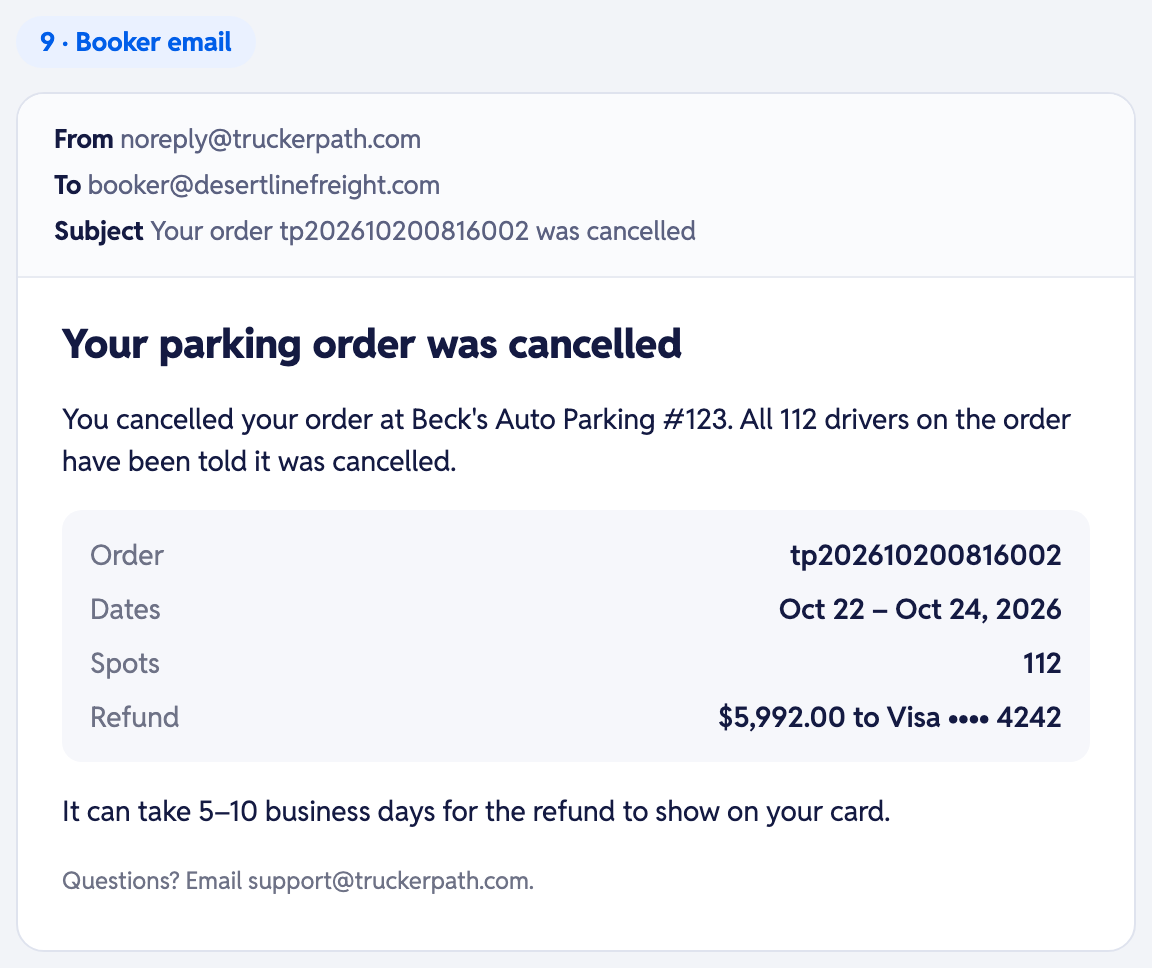
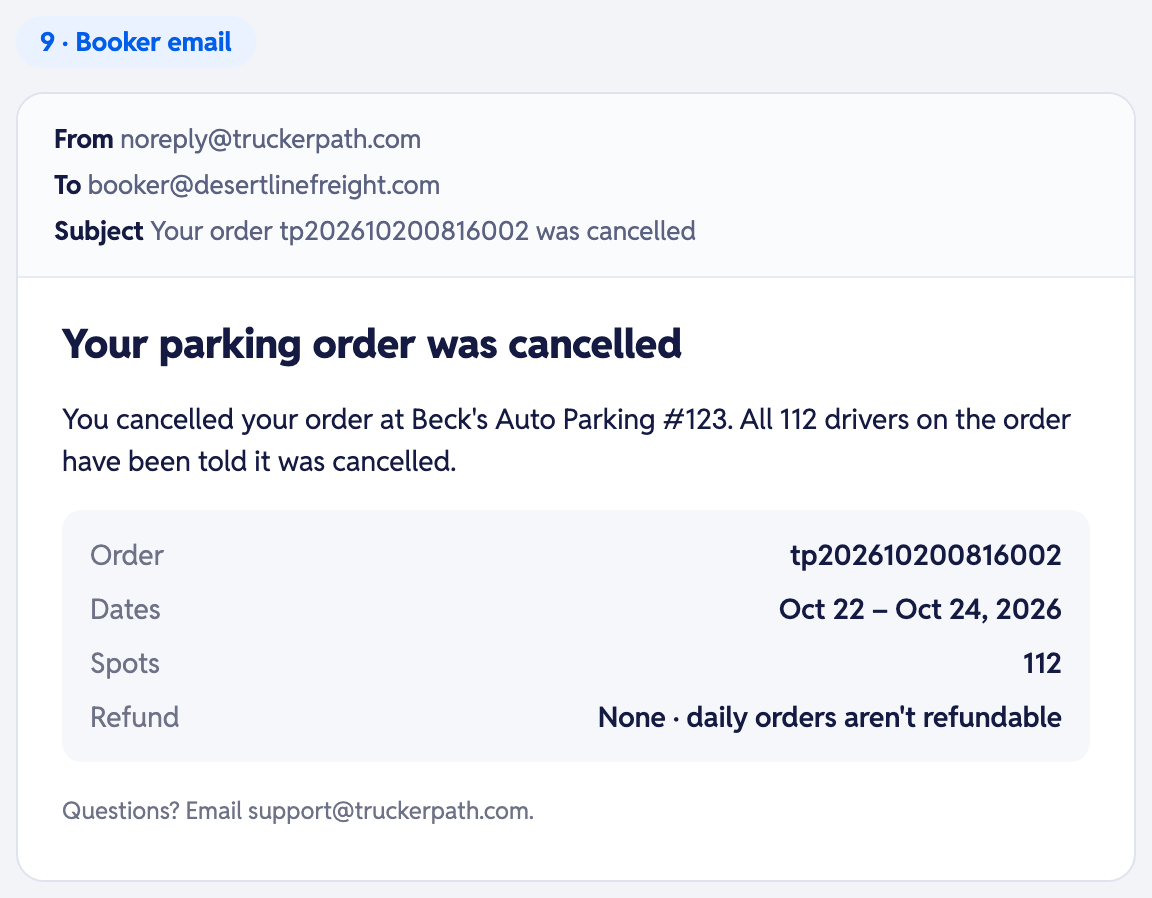
Fleet Web cancel follows the TP App: daily orders aren't refunded
Monthly subscriptions unsubscribed more than 1 day before start refund
in full; refund-failure state now on the monthly refund.

diff --git a/index.html b/index.html
@@ -541,10 +541,9 @@ const S = {
       subscription:{ start:'Sep 1, 2026', vtype:'Truck + Trailer', cardId:'card_visa',
         history:[ {period:'Sep 1 – Sep 30, 2026', on:'Sep 1, 2026, 10:15 AM', status:'Paid'},
                   {period:'Oct 1 – Oct 31, 2026', on:'Oct 1, 2026, 12:00 AM', status:'Failed', reason:'card declined (insufficient funds)'} ] }},
-    // upcoming orders that can still be cancelled: more than 2 hours out (full refund), inside the
-    // 2-hour window (no refund), and a monthly subscription that hasn't started (Unsubscribe refunds it)
+    // upcoming orders that can still be cancelled: a daily order (cancel, never refunded) and a monthly
+    // subscription starting more than 1 day out (Unsubscribe refunds it in full)
     {id:'tp202610271130118', loc:'Glendale, AZ — PHX1 Logistics Plus', lotId:'glendale1', dates:'Nov 3 – Nov 6, 2026', spots:22, paidOn:'Oct 27, 2026, 11:30 AM', status:'Paid', type:'batch'},
-    {id:'tp202610280645122', loc:'Eloy, AZ — PICACHO RV & TRUCK PARK', lotId:'eloy', dates:'Oct 28 – Oct 31, 2026', spots:22, paidOn:'Oct 28, 2026, 6:45 AM', status:'Paid', type:'batch', startsWithin2h:true},
     {id:'tp202610271620131', loc:'Maricopa, AZ — N White Rd Truck & Trailer Yard', lotId:'maricopa', dates:'Starts Nov 1, 2026 · monthly', spots:2, paidOn:'Oct 27, 2026, 4:20 PM', status:'Paid', type:'batch',
       subscription:{ start:'Nov 1, 2026', notStarted:true, vtype:'Truck + Trailer', cardId:'card_visa',
         history:[ {period:'Nov 1 – Nov 30, 2026', on:'Oct 27, 2026, 4:20 PM', status:'Paid'} ] }},
@@ -2364,14 +2363,12 @@ function orderDetailPage(d){
   ${retryPaymentModalHtml(d)}
   ${cancelModalHtml(d)}`;
 }
-// what cancelling would return, decided the way the backend's refund-info does: more than 2 hours
-// before start is a full refund of the total paid (tax included), anything later refunds nothing
+// what cancelling would return, following the TP App's cancel: a daily order is never refunded;
+// a monthly subscription unsubscribed more than 1 day before it starts refunds the total paid (tax included)
 function cancelOutcome(order, d){
-  let refundable;
-  if(order.subscription) refundable = !!order.subscription.notStarted;
-  else if(order.startsWithin2h) refundable = false;
-  else if(d.startIso) refundable = new Date(d.startIso) - Date.now() > 2 * 3600 * 1000;
-  else refundable = true;
+  let refundable = false;
+  if(order.subscription) refundable = !!order.subscription.notStarted && !order.subscription.startsWithin1d;
+  else if(d.bookingType === 'Monthly' && d.startIso) refundable = new Date(d.startIso) - Date.now() > 24 * 3600 * 1000;
   return { refundable, amount: refundable ? d.total : 0 };
 }
 function cancelledAccessPanel(d){
@@ -2379,7 +2376,7 @@ function cancelledAccessPanel(d){
   const when = d.refundedOn || d.cancelledOn;
   return `<div class="card gate-panel">
     <div class="card-head"><h2 class="card-title">${qr ? 'Check-in QR' : 'Gate Code'}</h2></div>
-    <div class="card-body"><div class="cancel-notice"><b>This order was cancelled</b>Cancelled on ${when}. ${qr ? `Every driver's QR code has expired.` : 'The gate code no longer works for this order.'}</div></div>
+    <div class="card-body"><div class="cancel-notice"><b>This order was ${d.refundedOn ? 'unsubscribed and refunded' : 'cancelled'}</b>${d.refundedOn ? 'Refunded' : 'Cancelled'} on ${when}. ${qr ? `Every driver's QR code has expired.` : 'The gate code no longer works for this order.'}</div></div>
   </div>`;
 }
 function cancelModalHtml(d){
@@ -2391,20 +2388,16 @@ function cancelModalHtml(d){
   let title, body, confirm, keep = 'Keep order';
   if(d.isMonthly && o.refundable){
     title = 'Unsubscribe and get a refund?';
-    body = `Your parking hasn't started yet, so you get everything back. The subscription ends now and your card won't be charged again. ${drivers} and get an email.`;
+    body = `Your parking starts more than 1 day from now, so you get everything back. The subscription ends now and your card won't be charged again. ${drivers} and get an email.`;
     confirm = 'Unsubscribe and refund'; keep = 'Keep subscription';
   } else if(d.isMonthly){
     title = 'Unsubscribe?';
     body = `Your spots stay active until the end of the current billing period, then end. Your card won't be charged again. This month isn't refundable.`;
     confirm = 'Unsubscribe'; keep = 'Keep subscription';
-  } else if(o.refundable){
-    title = 'Cancel this order?';
-    body = `${drivers} to ${lotName} and get an email.`;
-    confirm = 'Cancel order';
   } else {
-    title = 'Cancel without a refund?';
-    body = `This order starts within 2 hours, so it can't be refunded. ${drivers} and get an email.`;
-    confirm = 'Cancel without refund';
+    title = 'Cancel this order?';
+    body = `Daily orders aren't refundable, so you won't get money back. ${drivers} to ${lotName} and get an email.`;
+    confirm = 'Cancel order';
   }
   const showRefund = !(d.isMonthly && !o.refundable);
   return `<div class="modal-overlay" id="cancelOverlay">
